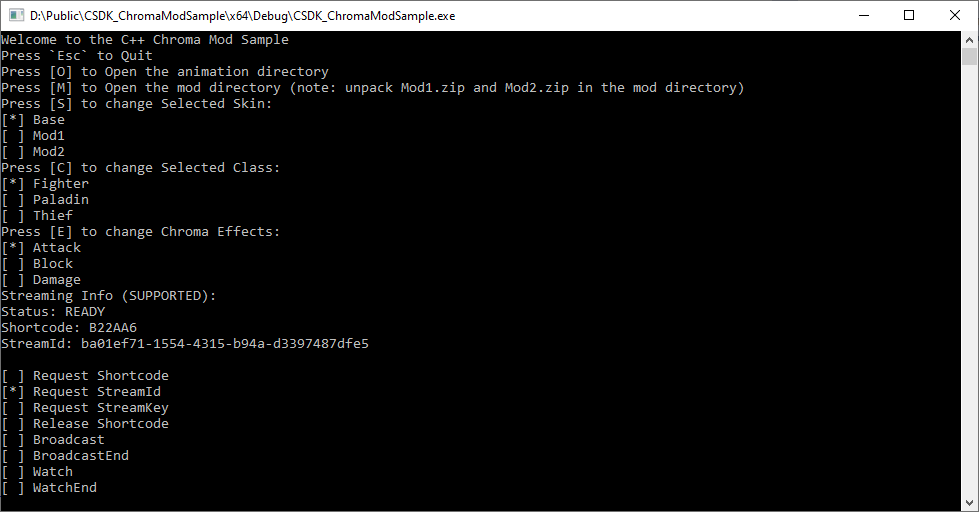
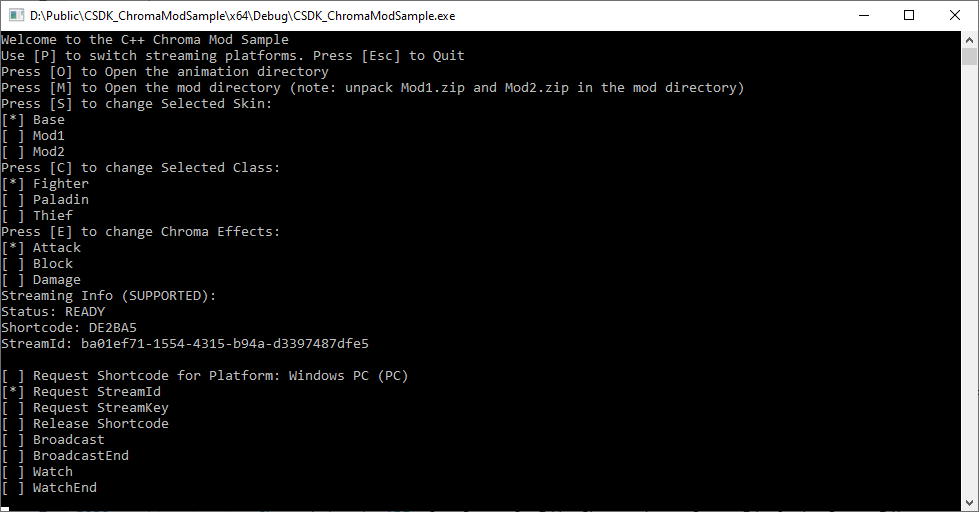
Added platform toggle for straming platforms

Changed region(s): [[0.0, 0.0938, 0.4903, 0.125], [0.1839, 0.7188, 0.429, 0.75], [0.0919, 0.625, 0.1532, 0.6562]]

diff --git a/main.cpp b/main.cpp
@@ -163,6 +163,7 @@ public:
 
 	void InputHandler(
 		bool supportsStreaming,
+		BYTE& platform,
 		bool& detectedInput,
 		HandleInput& inputEscape,
 		HandleInput& inputO,
@@ -172,7 +173,8 @@ public:
 		HandleInput& inputE,
 		HandleInput& inputEnter,
 		HandleInput& inputUp,
-		HandleInput& inputDown)
+		HandleInput& inputDown,
+		HandleInput& inputPlatform)
 	{
 		if (inputEscape.WasReleased())
 		{
@@ -180,6 +182,12 @@ public:
 			Cleanup();
 			exit(0);
 			return;
+		}
+
+		if (inputPlatform.WasReleased())
+		{
+			detectedInput = true;
+			platform = (platform + 1) % 4; //PC, AMAZON LUNA, MS GAME PASS, NVIDIA GFN
 		}
 
 		if (inputO.WasReleased())
@@ -243,7 +251,25 @@ public:
 				switch (_mSelection)
 				{
 				case 0:
-					ChromaAnimationAPI::CoreStreamGetAuthShortcode(_mShortcode, &_mLenShortcode, L"PC", L"C++ Chroma Mod Sample 好");
+					{
+						wstring strPlatform = L"PC";
+						switch (platform)
+						{
+						case 0:
+							strPlatform = L"PC";
+							break;
+						case 1:
+							strPlatform = L"LUNA";
+							break;
+						case 2:
+							strPlatform = L"GEFORCE_NOW";
+							break;
+						case 3:
+							strPlatform = L"GAME_PASS";
+							break;
+						}
+						ChromaAnimationAPI::CoreStreamGetAuthShortcode(_mShortcode, &_mLenShortcode, strPlatform.c_str(), L"C++ Chroma Mod Sample 好");
+					}
 					break;
 				case 1:
 					ChromaAnimationAPI::CoreStreamGetId(_mShortcode, _mStreamId, &_mLenStreamId);
@@ -296,11 +322,15 @@ public:
 	{
 		return (index == _mSelection) ? "*" : " ";
 	}
-	void PrintLegend(bool supportsStreaming)
+	void PrintLegend(bool supportsStreaming, BYTE platform)
 	{
 		system("CLS");
 		cout << "Welcome to the C++ Chroma Mod Sample" << endl;
-		cout << "Press `Esc` to Quit" << endl;
+		if (supportsStreaming)
+		{
+			fprintf(stdout, "Use [P] to switch streaming platforms. ");
+		}
+		cout << "Press [Esc] to Quit" << endl;
 		cout << "Press [O] to Open the animation directory" << endl;
 		cout << "Press [M] to Open the mod directory (note: unpack Mod1.zip and Mod2.zip in the mod directory) " << endl;
 
@@ -341,7 +371,23 @@ public:
 		int index = -1;
 		if (supportsStreaming)
 		{
-			fprintf(stdout, "[%s] Request Shortcode\r\n", IsSelected(++index));
+			fprintf(stdout, "[%s] Request Shortcode for Platform: ", IsSelected(++index));
+
+			switch (platform)
+			{
+			case 0:
+				fprintf(stdout, "Windows PC (PC)\r\n");
+				break;
+			case 1:
+				fprintf(stdout, "Windows Cloud (LUNA)\r\n");
+				break;
+			case 2:
+				fprintf(stdout, "Windows Cloud (GEFORCE NOW)\r\n");
+				break;
+			case 3:
+				fprintf(stdout, "Windows Cloud (GAME PASS)\r\n");
+				break;
+			}
 			fprintf(stdout, "[%s] Request StreamId\r\n", IsSelected(++index));
 			fprintf(stdout, "[%s] Request StreamKey\r\n", IsSelected(++index));
 			fprintf(stdout, "[%s] Release Shortcode\r\n", IsSelected(++index));
@@ -374,9 +420,11 @@ void GameLoop()
 {
 	bool supportsStreaming = ChromaAnimationAPI::CoreStreamSupportsStreaming();
 
+	BYTE platform = 0;
+
 	Selections selections;
 	selections.DetectMods();
-	selections.PrintLegend(supportsStreaming);
+	selections.PrintLegend(supportsStreaming, platform);
 	selections.PlayEffect();
 
 	// for app
@@ -386,6 +434,7 @@ void GameLoop()
 	HandleInput inputS = HandleInput('S');
 	HandleInput inputC = HandleInput('C');
 	HandleInput inputE = HandleInput('E');
+	HandleInput inputPlatform = HandleInput('P');
 
 	// for streaming
 	HandleInput inputEnter = HandleInput(VK_RETURN);
@@ -397,6 +446,7 @@ void GameLoop()
 	{
 		selections.InputHandler(
 			supportsStreaming,
+			platform,
 			detectedInput,
 			inputEscape,
 			inputO,
@@ -406,10 +456,11 @@ void GameLoop()
 			inputE,
 			inputEnter,
 			inputUp,
-			inputDown);
+			inputDown,
+			inputPlatform);
 		if (detectedInput)
 		{
-			selections.PrintLegend(supportsStreaming);
+			selections.PrintLegend(supportsStreaming, platform);
 			selections.PlayEffect();
 		}
 		detectedInput = false;

diff --git a/Razer/ChromaAnimationAPI.h b/Razer/ChromaAnimationAPI.h
@@ -612,7 +612,7 @@ typedef bool		(*PLUGIN_CORE_STREAM_GET_FOCUS)(char* focus, unsigned char* length
 	Retrieve the stream id after authorizing the shortcode. The authorization 
 	window will expire in 5 minutes. Be sure to save the stream key before 
 	the window expires.  platform: is the null terminated string that identifies 
-	the source of the stream: { GEFORCE_NOW, LUNA, STADIA, XBOX_GAME_PASS } 
+	the source of the stream: { GEFORCE_NOW, LUNA, STADIA, GAME_PASS } 
 	StreamGetStatus() should return the READY status to use this method.
 */
 typedef void		(*PLUGIN_CORE_STREAM_GET_ID)(const char* shortcode, char* streamId, unsigned char* length);
@@ -3272,7 +3272,7 @@ namespace ChromaSDK
 			Retrieve the stream id after authorizing the shortcode. The authorization 
 			window will expire in 5 minutes. Be sure to save the stream key before 
 			the window expires.  platform: is the null terminated string that identifies 
-			the source of the stream: { GEFORCE_NOW, LUNA, STADIA, XBOX_GAME_PASS } 
+			the source of the stream: { GEFORCE_NOW, LUNA, STADIA, GAME_PASS } 
 			StreamGetStatus() should return the READY status to use this method.
 		*/
 		CHROMASDK_DECLARE_METHOD(PLUGIN_CORE_STREAM_GET_ID, CoreStreamGetId);

diff --git a/README.md b/README.md
@@ -2663,7 +2663,7 @@ is greater than zero, it will be the length of the returned streaming id.
 Retrieve the stream id after authorizing the shortcode. The authorization
 window will expire in 5 minutes. Be sure to save the stream key before
 the window expires.  platform: is the null terminated string that identifies
-the source of the stream: { GEFORCE_NOW, LUNA, STADIA, XBOX_GAME_PASS }
+the source of the stream: { GEFORCE_NOW, LUNA, STADIA, GAME_PASS }
 StreamGetStatus() should return the READY status to use this method.
 
 ```C++
